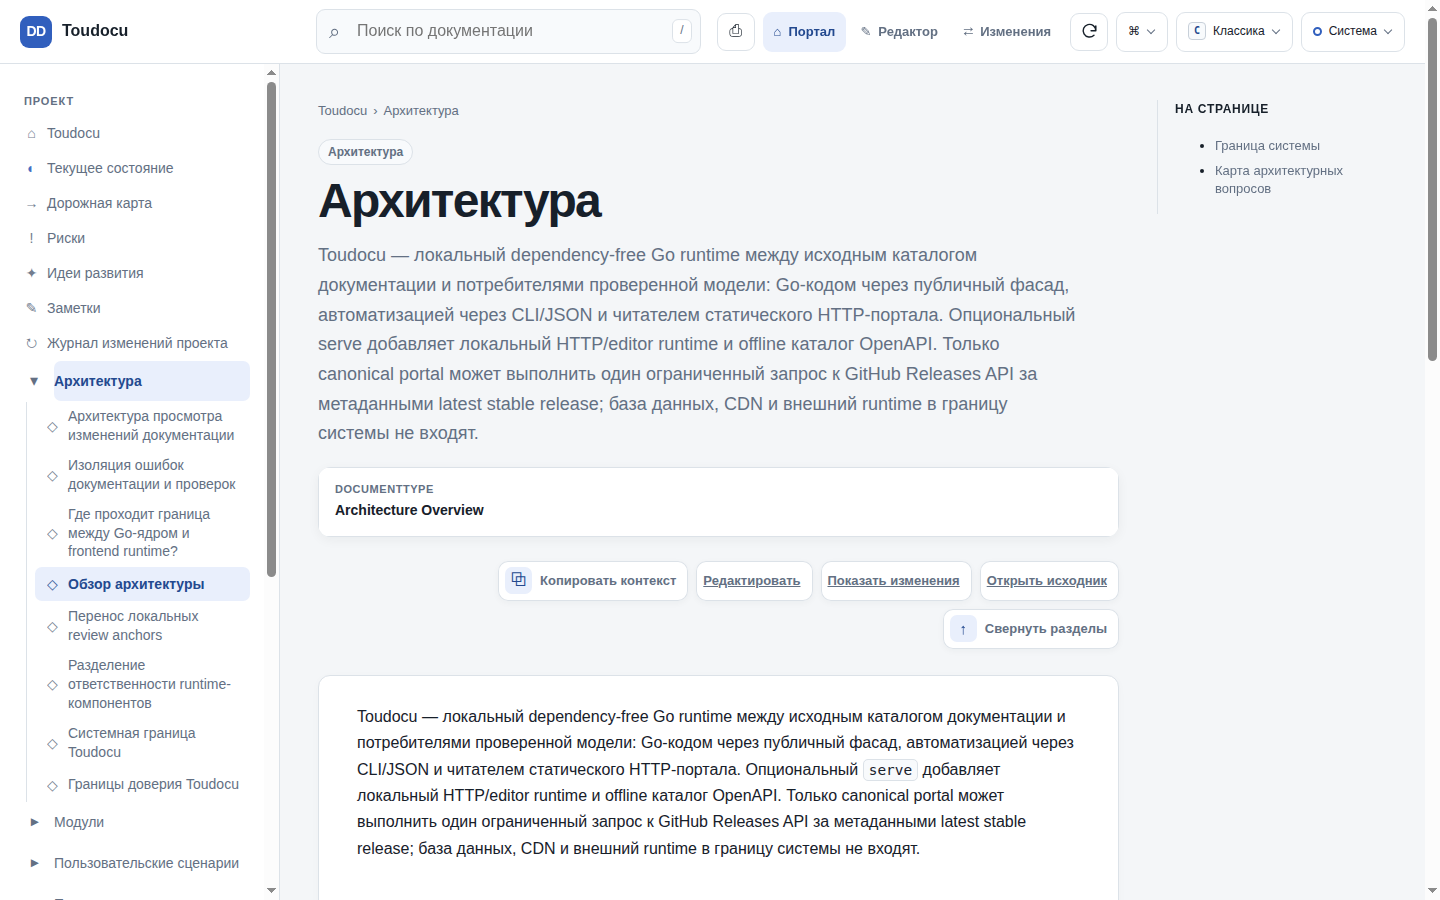
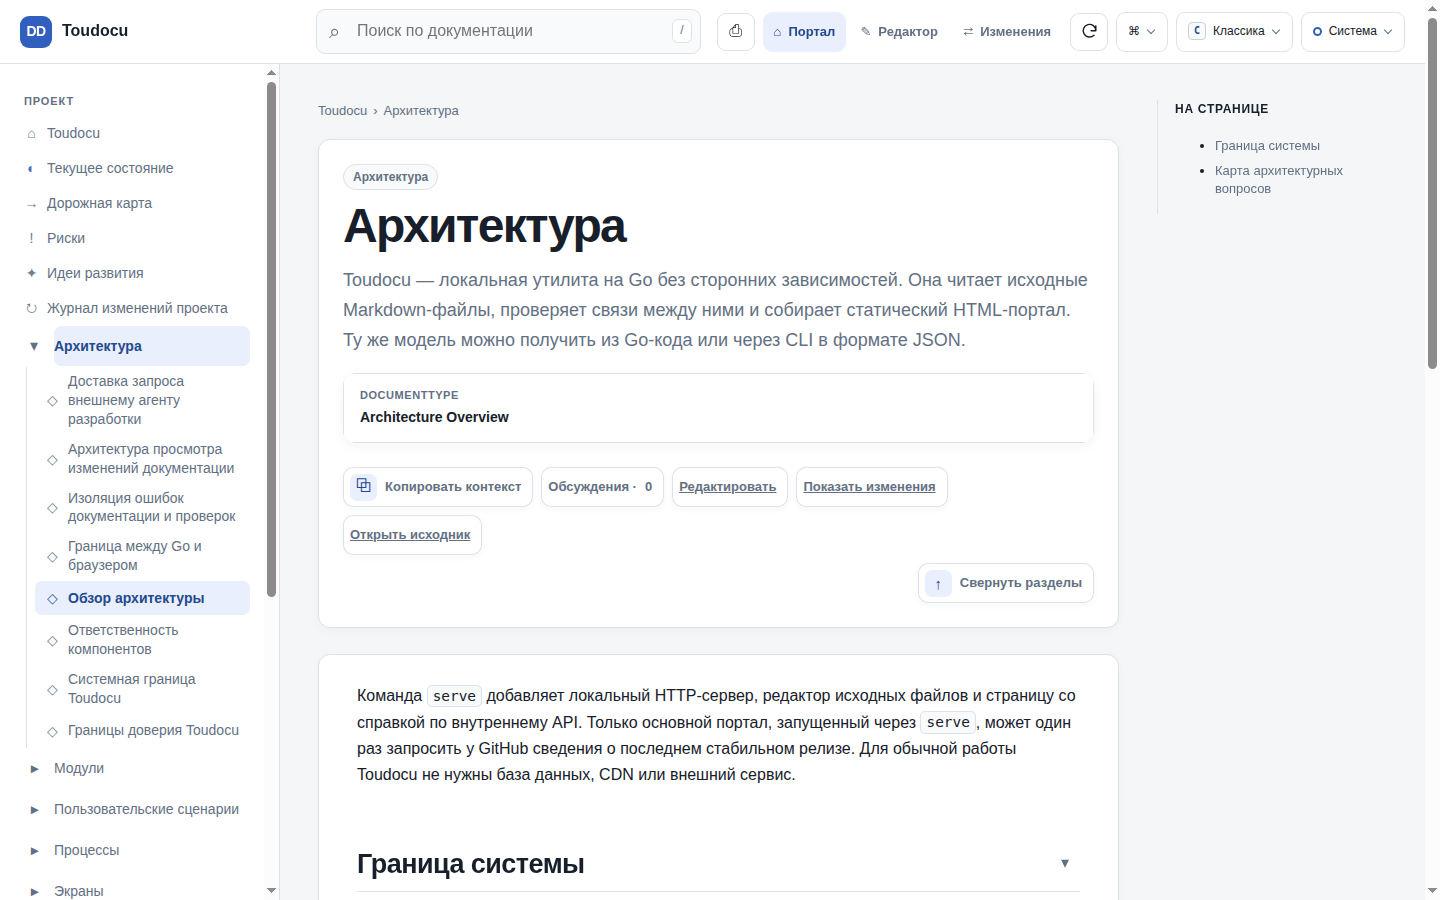
style: enhance page layout with consistent borders and padding
- Added border, border-radius, background, and box-shadow to .page-header, .process-catalog, and .screen-catalog for improved visual separation.
- Updated padding for .page-header, .process-catalog, and .screen-catalog to ensure consistent spacing.

diff --git a/web/src/styles/portal.css b/web/src/styles/portal.css
@@ -380,7 +380,15 @@ button, a { -webkit-tap-highlight-color: transparent; }
 .breadcrumbs a:hover { color: var(--accent); }
 .breadcrumbs-separator { opacity: 0.55; }
 
-.page-header { margin-bottom: 26px; }
+.page-header,
+.process-catalog,
+.screen-catalog {
+  border: 1px solid var(--border);
+  border-radius: var(--radius);
+  background: var(--surface);
+  box-shadow: 0 2px 10px #1c273109;
+}
+.page-header { margin-bottom: 26px; padding: 24px; }
 .page-kicker { display: flex; flex-wrap: wrap; align-items: center; gap: 8px; margin-bottom: 9px; }
 .page-header h1 {
   margin: 0;
@@ -1084,6 +1092,8 @@ a.dashboard-focus:hover .focus-arrow { transform: translateX(4px); }
   border-radius: 10px;
   background: var(--surface-soft);
 }
+.process-catalog,
+.screen-catalog { padding: 18px; }
 .process-filter-search { min-width: 220px; }
 .process-table { overflow-x: auto; border-top: 1px solid var(--border); border-bottom: 1px solid var(--border); }
 .process-table table { width: 100%; min-width: 900px; border-collapse: collapse; table-layout: fixed; font-size: 13px; }
@@ -1588,6 +1598,7 @@ html[data-color-scheme="dark"] .scheme-toggle-indicator { background: var(--text
   .header-select { width: 44px; min-height: 44px; justify-content: center; padding: 0; }
   .header-select::after { position: absolute; right: 5px; bottom: 7px; width: 5px; height: 5px; }
   .page-grid { padding: 22px 14px 48px; }
+  .page-header, .process-catalog, .screen-catalog { padding: 18px; }
   .page-header h1 { font-size: 34px; }
   .hero { padding: 25px 20px; border-radius: 13px; }
   .hero h1 { font-size: 2.7rem; }

diff --git a/internal/app/site.go b/internal/app/site.go
@@ -720,7 +720,7 @@ func renderDocumentPage(model *Model, document *Document) string {
 			}
 		}
 	}
-	body := renderDocumentMarkdown(model, document, resolver, taskCompletionByLine)
+	body := renderDocumentBody(model, document, resolver, taskCompletionByLine)
 	controls := ""
 	if document.TaskStats.Total > 0 {
 		label := ui.Text("tasks.checklist")
@@ -1024,19 +1024,6 @@ func renderDashboardFocus(model *Model) string {
 	return `<a class="dashboard-section dashboard-focus" aria-label="` + escapeAttr(ui.Text("focus.currentValue", nextLabel)) + `" href="` + escapeAttr(target) + `">` + content + `</a>`
 }
 
-func dashboardOverviewBody(model *Model, document *Document) string {
-	body := strings.TrimSpace(renderDocumentMarkdown(model, document, linkResolverFor(model, document), nil))
-	description := strings.TrimSpace(document.Description)
-	if description == "" {
-		return body
-	}
-	prefix := `<p>` + escapeHTML(description) + `</p>`
-	if strings.HasPrefix(body, prefix) {
-		return strings.TrimSpace(strings.TrimPrefix(body, prefix))
-	}
-	return body
-}
-
 func renderDashboard(model *Model) string {
 	ui := portalUI(model)
 	meta := ""
@@ -1045,7 +1032,7 @@ func renderDashboard(model *Model) string {
 	}
 	overview := ""
 	if document := model.Project.OverviewDocument; document != nil {
-		body := dashboardOverviewBody(model, document)
+		body := renderDocumentBody(model, document, linkResolverFor(model, document), nil)
 		if body != "" {
 			overview = `<section class="dashboard-section dashboard-overview" data-dashboard-overview aria-labelledby="dashboard-overview-title"><div class="dashboard-overview-heading"><div><h2 id="dashboard-overview-title">` + escapeHTML(ui.Text("dashboard.overview")) + `</h2><small>` + escapeHTML(ui.Text("dashboard.fullIndex")) + `</small></div><div class="page-actions dashboard-page-actions">` + renderDocumentContextButton(model, document) + `</div></div><div class="dashboard-overview-body"><article class="doc-content">` + body + `</article></div></section>`
 		}

diff --git a/internal/app/integration_test.go b/internal/app/integration_test.go
@@ -1100,6 +1100,23 @@ func TestDashboardFocusFallbacksAndAlwaysVisibleOverview(t *testing.T) {
 	}
 }
 
+func TestPortalDoesNotRepeatDocumentDescription(t *testing.T) {
+	_, docs, _ := createFixture(t)
+	writeTestFile(t, docs, "index.md", "# Test Project\n\nОписание тестового\nпроекта.\n\n## Раздел\n\nСодержимое.\n")
+	model := buildFixture(t, docs)
+
+	dashboard := renderDashboard(model)
+	dashboard = dashboard[strings.Index(dashboard, `<main id="main-content"`):]
+	if count := strings.Count(dashboard, "Описание тестового"); count != 1 {
+		t.Fatalf("dashboard description appears %d times", count)
+	}
+	document := renderDocumentPage(model, model.DocByPath["modules/auth.md"])
+	document = document[strings.Index(document, `<main id="main-content"`):]
+	if count := strings.Count(document, "Модуль входа."); count != 1 {
+		t.Fatalf("document description appears %d times", count)
+	}
+}
+
 func TestGenerateMermaidSiteAssetsAndMarkup(t *testing.T) {
 	_, docs, output := createFixture(t)
 	useCasePath := filepath.Join(docs, "use-cases", "login.md")

diff --git a/internal/app/markdown_render.go b/internal/app/markdown_render.go
@@ -1,6 +1,8 @@
 package toudocu
 
 import (
+	"strings"
+
 	markdowncore "toudocu/internal/markdown"
 	frontend "toudocu/internal/site"
 )
@@ -64,6 +66,16 @@ func renderDocumentMarkdown(model *Model, document *Document, resolver LinkResol
 		return ""
 	}
 	return html
+}
+
+func renderDocumentBody(model *Model, document *Document, resolver LinkResolver, taskCompletionByLine map[int]bool) string {
+	body := strings.TrimSpace(renderDocumentMarkdown(model, document, resolver, taskCompletionByLine))
+	if document.Description != "" && strings.HasPrefix(body, "<p>") {
+		if end := strings.Index(body, "</p>"); end >= 0 {
+			return strings.TrimSpace(body[end+4:])
+		}
+	}
+	return body
 }
 
 func renderMarkdownFragment(source string, context renderContext) string {

diff --git a/internal/app/process_site.go b/internal/app/process_site.go
@@ -217,7 +217,7 @@ func renderUseCasePage(model *Model, document *Document) string {
 		return renderDocumentPage(model, document)
 	}
 	current := document.OutputPath
-	body := renderDocumentMarkdown(model, document, linkResolverFor(model, document), nil)
+	body := renderDocumentBody(model, document, linkResolverFor(model, document), nil)
 	flow := findPlayableFlow(model, useCase.ID)
 	mapPanel := `<div class="empty-state"><strong>` + escapeHTML(ui.Text("process.mapUnavailable")) + `</strong><p>` + escapeHTML(ui.Text("process.mapUnavailableHelp")) + `</p></div>`
 	playPanel := `<div class="empty-state"><strong>` + escapeHTML(ui.Text("process.playUnavailable")) + `</strong><p>` + escapeHTML(ui.Text("process.playUnavailableHelp")) + `</p></div>`

diff --git a/docs/screens/SC-SITE-SCREEN-MAP.md b/docs/screens/SC-SITE-SCREEN-MAP.md
@@ -6,7 +6,7 @@
 - Статус: Реализован
 - Маршрут: `/screens/index.html`
 - Превью: `../assets/screens/site-screen-map.png`
-- Последнее обновление: 2026-08-10
+- Последнее обновление: 2026-08-12
 
 Карта показывает экраны `SC-*` и описанные между ними переходы `TR-*`. Её можно
 фильтровать, перемещать и масштабировать, а по нажатию на узел или стрелку —

diff --git a/docs/screens/SC-SITE-USE-CASE.md b/docs/screens/SC-SITE-USE-CASE.md
@@ -5,7 +5,7 @@
 - Модуль: MOD-SITE
 - Статус: Реализован
 - Превью: `../assets/screens/site-use-case.png`
-- Последнее обновление: 2026-08-10
+- Последнее обновление: 2026-08-12
 
 Страница объединяет текст выбранного `UC-*`, его экраны и переходы, пошаговое
 прохождение и ссылки на связанные документы. Адрес зависит от исходного
